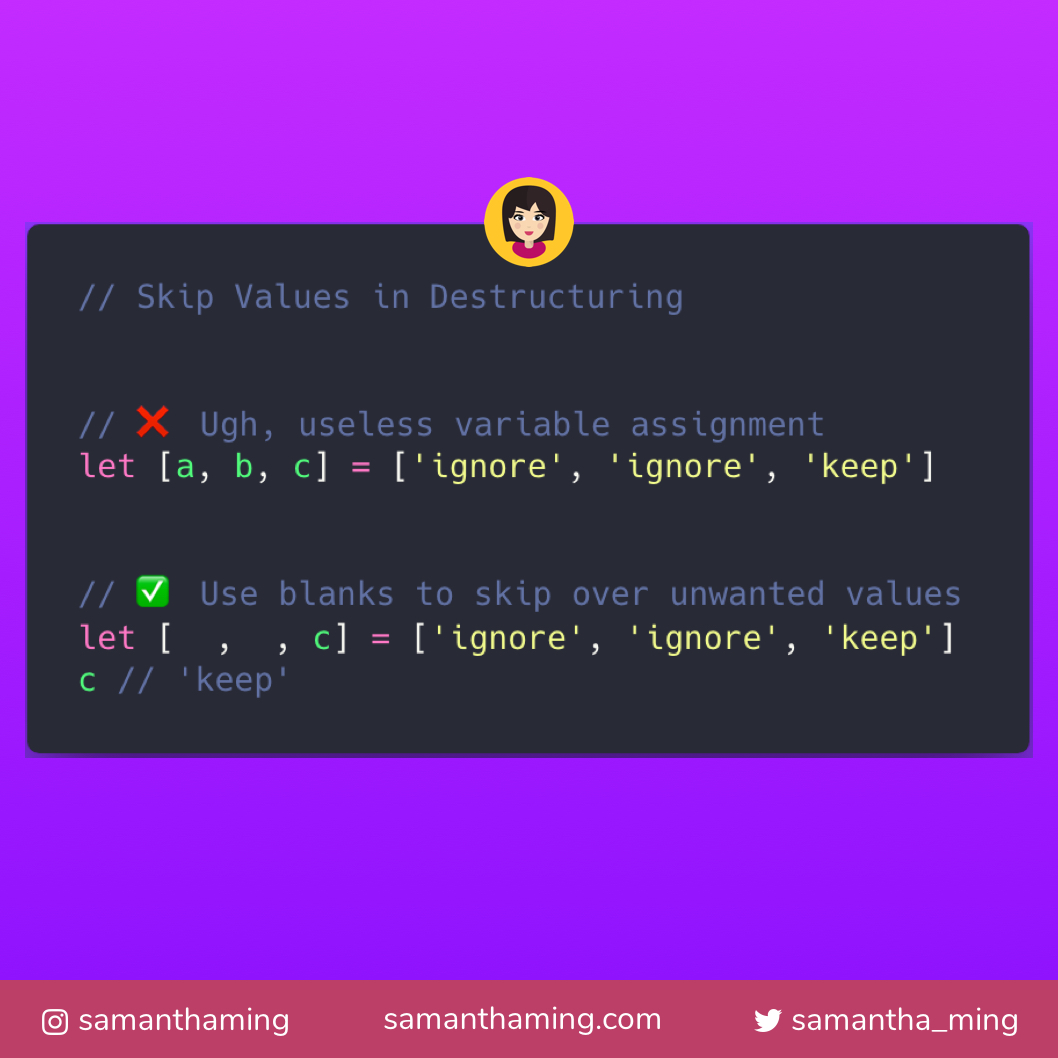
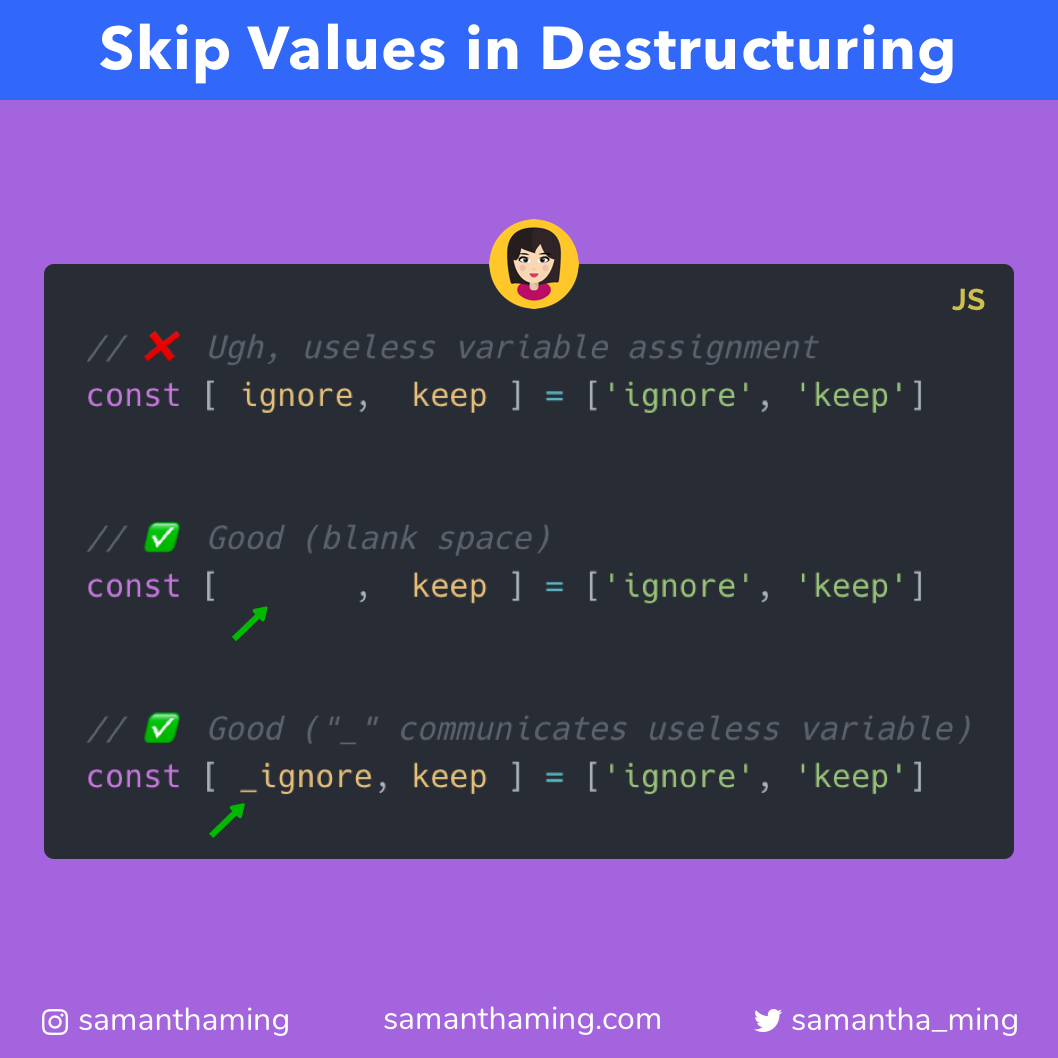
Update tidbit-13

diff --git a/articles/tidbits/13-skip-values-in-destructuring.md b/articles/tidbits/13-skip-values-in-destructuring.md
@@ -1,51 +1,92 @@
 # Skip Values In Destructuring
 
-Skip Values in Destructuring 🎉
-
-You can use blanks to skip over unwanted values.
+You can use blanks to skip over unwanted values 🤓
 
 This way you can avoid useless variable assignments for values you don’t want during destructuring 👍
 
-```javascript
-// Ugh, useless variable assignments
-let [a,b,c] = ['ignore', 'ignore', 'keep'];
-console.log(a, b, c); // ignore ignore keep
+You can also prefix "\_" followed by the variable name you're disregarding. This helps communicates to your team member that it's a useless variable 🤝
 
-// Use blanks to skip over unwanted values
-let [ , , c2] = ['ignore', 'ignore', 'keep'];
-console.log(c2); // keep
+```javascript
+// ❌ Ugh, useless variable assignment
+const [ignore, keep] = ['ignore', 'keep'];
+
+// ✅ Good (blank space)
+const [, keep] = ['ignore', 'keep'];
+
+// ✅ Good ("_" communicates useless variable)
+const [_ignore, keep] = ['ignore', 'keep'];
 ```
 
-## Community Suggestions
+## Add Comments to Improve Code Readability
 
-### Use Comments to Improve Code Readability
+When using the blank space option to skip over values, you can also add comments. This will help communicate to your fellow developers that you are intentionally skipping over the unwanted values.
 
-You can use comments within the blank spaces to make your code more readable.
-This will help communicate to your fellow developers that you are intentionally skipping over the unwanted values.
-
-_Thanks: [@sulco](https://twitter.com/sulco/status/990952399060832257)_
-
+<!-- prettier-ignore -->
 ```js
 let [
   chili,
   , // rotten
   , // rancid
   apple,
-  olive
+  olive,
 ] = ['chili', 'rotten', 'rancid', 'apple', 'olive'];
 
 // OR
 
-let [chili, /*rotten*/, /*rancid*/, c] = ['chili', 'rotten', 'rancid', 'keep', 'olive'];
+let [
+  chili,
+  /* rotten */,
+  /* rancid */,
+  keep,
+  olive
+] = ['chili', 'rotten', 'rancid', 'keep', 'olive'];
 ```
 
-## Community Examples
+## Simple Use Case
 
-### Parsing data from `split()`
+Here is a simple use case where this could be helpful.
 
-Parsing comma-deliminated data and grabbing only what you need.
+<!-- prettier-ignore -->
+```javascript
+const url = 'www.samanthaming.com/tidbit.jpg';
 
-_Thanks: [@SamHulick](https://twitter.com/SamHulick)_
+// 1. Split string by "."
+const array = url.split('.'); // [ 'www', 'samanthaming', 'com/tidbit', 'jpg' ]
+
+// 2. Create only the variable we want
+const [ , domain, ,type] = array;
+
+// 3. Consuming the variable we created
+const name = `${domain}.${type}`;
+// 'samanthaming.jpg'
+```
+
+## Community Input
+
+_[@komputarist](https://twitter.com/komputarist/status/1231469117816877056?s=20):_ The underscore will be quite helpful. At least someone reading the codes won't have to trace what the variables look like. It can be stressful though when there are lots of variables in the destructured item (array or object).
+
+_[@FPresencia](https://twitter.com/FPresencia/status/1231509593064398854?s=20):_ Learning that you can do `[ , valueICareAbout]` has been very useful. As most linters complain about unused variables.
+
+_[@Erik](https://twitter.com/ErikSjaastad/status/1231332363818287105?s=20):_ In TypeScript the convention is just `_`
+
+_[@sulco](https://twitter.com/sulco/status/990952399060832257)_ Agreed, but always look at it pragmatically and have code readability in mind. It can get to absurd situation of making your fellow developer (or you in a future) to have to start counting commas to understand the code ;-)
+
+```javascript
+const values = ['ignore', 'ignore', 'keep'];
+
+// ❌ Don't do useless variable assignment
+const [a, b, c] = values;
+
+// ✅ if all you need is one value...
+const [, keep] = ['ignore', 'keep'];
+
+// 🦄 But also, don't overhack it:
+let c = values[2]; // simpler is better
+```
+
+<br>
+
+_[@SamHulick](https://twitter.com/SamHulick):_ Parsing comma-deliminated data and grabbing only what you need.
 
 ```js
 const tooMuchData = '33871,LOC,type1,99.27,FN';
@@ -54,12 +95,12 @@ const [, , , price] = tooMuchData.split(',');
 console.log(price); // 99.27
 ```
 
+<br>
+
+_[@zornwebdev](https://twitter.com/zornwebdev/status/1231595452254085120?s=21):_ Or, you can even destructure an array like an object where the key is the index and then you rename the key to the variable name you want `const {1: name} = ['ignore', 'keep']`. The value for `name` would be `keep` due to that being the value at index 1 in the array.
+
 ## Resources
 
-- https://developer.mozilla.org/en-US/docs/Web/JavaScript/Reference/Operators/Destructuring_assignment#Ignoring_some_returned_values
-
-- http://untangled.io/advanced-es6-destructuring-techniques/
-
-- https://stackoverflow.com/questions/46775128/how-can-i-ignore-certain-returned-values-from-array-destructuring
-
-- http://2ality.com/2015/01/es6-destructuring.html
+- [MDN Web Docs: Destructuring - Ignoring some returned values](https://developer.mozilla.org/en-US/docs/Web/JavaScript/Reference/Operators/Destructuring_assignment#Ignoring_some_returned_values)
+- [Advanced ES6 Destructuring Techniques](http://untangled.io/advanced-es6-destructuring-techniques/)
+- [Stack Overflow: How can I ignore certain returned values from array destructuring?](https://stackoverflow.com/questions/46775128/how-can-i-ignore-certain-returned-values-from-array-destructuring)
